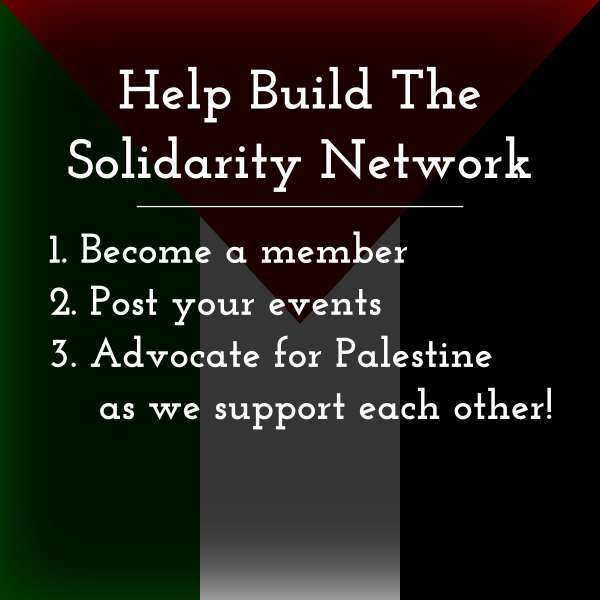
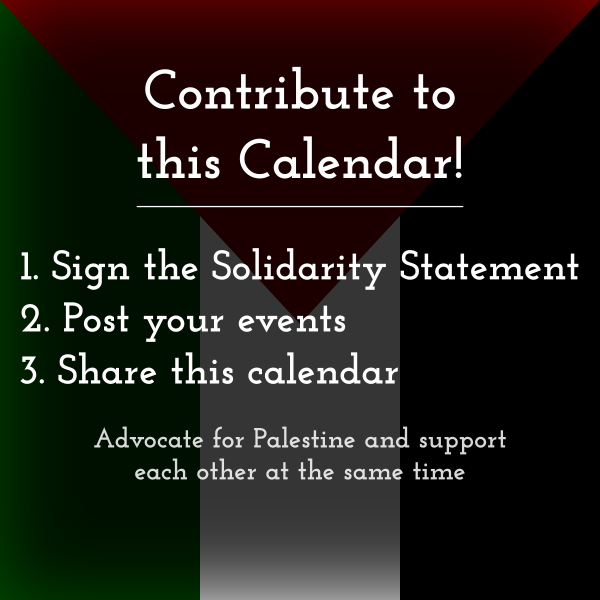
un-name the solidarity network

diff --git a/events.html b/events.html
@@ -10,50 +10,24 @@
 	</div>
 	-->
 
-	<div class="olive-pattern-bg">
-		<h2>Solidarity Network Members</h2>
-	</div>
-	<div id="solidarity-statement">
-		<p>
-			As members of the Solidarity Network we are committing to showing visible solidarity with Palestine at our shows/gigs/performances.
-		</p>
-
-		<h2>Historical Context</h2>
-		<p>
-			We stand in solidarity knowing that for 76 years, the Palestinian people have resisted genocide and a suffocating apartheid system, which restricts people's movements, separating them from their fields, families, schools, and neighbors. They continue to be forced out of their ancestral lands and homes, unjustly imprisoned and brutally tortured. They face a relentlessly dehumanizing mass media campaign and companion military effort fully enabled by the United States’ military, financial, and diplomatic support.
-		</p>
-		<h2>Why it Matters for Musicians in New Orleans</h2>
-		<p>
-			We will not be idle as these atrocities continue. We recognize the power we have as musicians in New Orleans. We are not passive observers; we are active participants in shaping our city’s culture, and that of other places that look to New Orleans as a cultural beacon. As people of conscience and humans with hearts, as artists and musicians, we commit to using our visibility to broadcast our principles, to fight the normalization of the Zionist genocide and occupation, and to leverage what power we have to support all peoples of the world struggling for justice.
-		</p>
-	</div>
-
-	<div id="members">
-		<h2>Members</h2>
-	{% for member in site.data.members %}
-		<div class="member">
-			<span class="member-name">{{ member.name }}</span>
-		</div>
-	{% endfor %}
-	</div>
 
 
 
 	<div class="olive-pattern-bg">
-		<h2>Solidarity Network Calendar</h2>
+		<h2>Calendar</h2>
 	</div>
 
 	<p>
-		Here you'll find shows of bands that are part of the Solidarity Network
+		Here you'll find our upcoming events, events from signatories of the solidarity statement,
 		as well as events from organizations in the New Orleans Coalition for Palestine.
-		Bands in the network direct their audiences to this page with a QR-Code.
+		Musicians direct their audiences to this page with a QR-Code that we provide.
 		In this way we're supporting each other and helping keep our audiences
 		informed about how they can be supportive to the movement for Palestinian
 		Liberation.
 	</p>
 
-	<p>To submit an event to the Solidarity Network Calendar, fill out <a href="{{site.data.quick_links.solidarity_network_event_submission_form.link}}" target="_blank">this form</a></p>
-	<p>To sign up to be a part of the Solidarity Network, fill out <a href="{{site.data.quick_links.solidarity_network_signup_form.link}}" target="_blank">this form</a></p>
+	<p>To submit an event to the calendar, fill out <a href="{{site.data.quick_links.calendar_event_submission_form.link}}" target="_blank">this form</a></p>
+	<p>To sign on to our solidarity statement, fill out <a href="{{site.data.quick_links.solidarity_statement_form.link}}" target="_blank">this form</a></p>
 
 </div>
 <div id="calendar" class="net-pattern-bg">

diff --git a/index.html b/index.html
@@ -45,6 +45,31 @@
 		We acknowledge that music and culture are fundamentally political.
 		</p>
 	</div>
+
+	<div class="olive-pattern-bg">
+		<h2>Solidarity Statement</h2>
+	</div>
+	<div id="solidarity-statement">
+		<h3>Historical Context:</h3>
+		<p>
+			We stand in solidarity knowing that for 76 years, the Palestinian people have resisted genocide and a suffocating apartheid system, which restricts people's movements, separating them from their fields, families, schools, and neighbors. They continue to be forced out of their ancestral lands and homes, unjustly imprisoned and brutally tortured. They face a relentlessly dehumanizing mass media campaign and companion military effort fully enabled by the United States’ military, financial, and diplomatic support.
+		</p>
+		<h3>Why it Matters for Musicians in New Orleans:</h3>
+		<p>
+			We will not be idle as these atrocities continue. We recognize the power we have as musicians in New Orleans. We are not passive observers; we are active participants in shaping our city’s culture, and that of other places that look to New Orleans as a cultural beacon. As people of conscience and humans with hearts, as artists and musicians, we commit to using our visibility to broadcast our principles, to fight the normalization of the Zionist genocide and occupation, and to leverage what power we have to support all peoples of the world struggling for justice.
+		</p>
+		<p><a href="{{site.data.quick_links.solidarity_statement_form.link}}" target="_blank">Click here to add your name!</a></p>
+	</div>
+
+	<h2>Signatories</h2>
+	<div id="members">
+	{% for member in site.data.members %}
+		<div class="member">
+			<span class="member-name">{{ member.name }}</span>
+		</div>
+	{% endfor %}
+	</div>
+	<p><a href="{{site.data.quick_links.solidarity_statement_form.link}}" target="_blank">Click here to add your name!</a></p>
 </div>
 
 {% if false %}

diff --git a/_sass/main.scss b/_sass/main.scss
@@ -105,8 +105,12 @@ nav{
 	@media only screen and (max-width: 500px){
 		max-width: 90vw;
 	}
-
 }
+
+#members{
+	text-align: center;
+}
+
 
 #vision{
 

diff --git a/from_new_orleans_to_palestine.md b/from_new_orleans_to_palestine.md
@@ -23,7 +23,7 @@ layout: ana_dammi_falastini
 
 On January 6th, 2024, working musicians and hundreds of New Orleans community members commandeered the route for a parade that rings in the first night of Carnival season revelry. The sound of brass instruments and Arabic drums filled the air, punctuated with chants like “Resistance is justified, when people face genocide!” and “From the river to the sea, Palestine will be free!” This procession marked the inception of the collective, New Orleans Musicians for Palestine (NM4P).
 
-NM4P took to the streets that night to draw attention to Israel’s attacks on Gaza and declare solidarity with Palestinian resistance and liberation. Since then, the collective has expanded, and now includes the Hanoun Brass Band; a Carnival krewe called Krewe of Zeitoun; and a musicians’ solidarity network. Together, they led a vibrant “right of return” parade last Lundi Gras, bringing Palestinian and Arabic music, culture, and a spirit of resistance to Mardi Gras.
+NM4P took to the streets that night to draw attention to Israel’s attacks on Gaza and declare solidarity with Palestinian resistance and liberation. Since then, the collective has expanded, and now includes the Hanoun Brass Band; a Carnival krewe called Krewe of Zeitoun; and a network of individual bands and musicians in solidarity. Together, they led a vibrant “right of return” parade last Lundi Gras, bringing Palestinian and Arabic music, culture, and a spirit of resistance to Mardi Gras.
 
 On November 26th, 2025, Hanoun Brass Band will release their debut album, “From New Orleans to Palestine”, which is now available for digital purchase. “Hanoun” is a Palestinian word for poppy flower, which has long symbolized Palestinian national identity, culture, resistance, and every Palestinian martyred by settlers and the occupation forces.
 

diff --git a/README.md b/README.md
@@ -2,6 +2,22 @@
 layout: readme
 ---
 
+# Current Task
+
+We're un-naming the solidarity network. that means a few things
+
+- calling everyone who signed up simply "members" or "signatories" and listing them on the website
+- re-issuing all QR code sheets
+- listing members on the website <- Doing this now
+
+- [x] change "solidarity network" in nav to "calendar"
+- [x] move the content of solidarity network page (except calendar) to home under the heading "solidarity statement"
+- [x] list members (for now static, but make it dynamic later)
+- [x] change words "solidarity network" from other links and navs
+- [x] change words "solidarity network" from forms and signup sheets 
+
+
+
 # Development Notes
 
 ## setup environment
@@ -46,7 +62,7 @@ To deploy this site from the `live` branch using the [included action](.github/w
 - [ ] handle old events better
 - [ ] download events in batches of 10 dynamically
     - the pages are pre-rendered by jekyll, just not served
-- [ ] make something to show for when there are no upcoming events
+- [x] make something to show for when there are no upcoming events
 - [ ] automate followup email
 - [ ] regular blog where orgs can post updates
 - [ ] content pulled from google docs
@@ -56,3 +72,4 @@ To deploy this site from the `live` branch using the [included action](.github/w
 - [ ] chant list
 - [ ] make sure everything that needs to be environment variables are that way
     - [ ] document how to clone the repository and make your own
+- [ ] pull events from multiple sources

diff --git a/ana_dammi_falastini.md b/ana_dammi_falastini.md
@@ -22,7 +22,7 @@ layout: ana_dammi_falastini
   </div>
 </div>
 
-On Twelfth Night, 2024, a multicultural New Orleans brass band commandeered the first parade of Carnival, launching the New Orleans Musicians for Palestine (NM4P) collective to bring attention to the Israeli state's attacks on Gaza. Since then, the collective expanded, and now includes the Hanoun Brass Band; a Carnival krewe called Krewe of Zeitoun; and a musicians’ solidarity network. Together, they led a joyful “right of return” parade last Lundi Gras, bringing Palestinian and Arabic music, culture, and a spirit of resistance to Mardi Gras.
+On Twelfth Night, 2024, a multicultural New Orleans brass band commandeered the first parade of Carnival, launching the New Orleans Musicians for Palestine (NM4P) collective to bring attention to the Israeli state's attacks on Gaza. Since then, the collective expanded, and now includes the Hanoun Brass Band; a Carnival krewe called Krewe of Zeitoun; and a network of individual bands and musicians in solidarity. Together, they led a joyful “right of return” parade last Lundi Gras, bringing Palestinian and Arabic music, culture, and a spirit of resistance to Mardi Gras.
 
 This September 5, Hanoun Brass Band will be releasing their first single, an arrangement of Ana Dammi Falastini (My blood Is Palestinian). All proceeds from the release will be donated to organizations supporting Palestinian rights.
 

diff --git a/_events/no-more.md b/_events/no-more.md
@@ -1,5 +1,5 @@
 ---
-title: Help Build the Solidarity Network
+title: Contribute to this calendar
 date: 2030-01-01
 time: 
 location: 
@@ -7,8 +7,8 @@ flyer: no-more.png
 ---
 
 
-If you'd like to become a member [click here](https://forms.gle/HU9fxeH3VrxeypiU7)
+If you'd like to sign the solidarity statement [click here]({{site.data.quick_links.solidarity_statement_form.link}})
 
-To submit an event to this calendar [click here](https://forms.gle/T9pz7BpdDSTSkxxV8)
+To submit an event to this calendar [click here]({{site.data.quick_links.calendar_event_submission_form.link}})
 
 If you don't see an event that's supposed to be here, please let us know. Please note that it may take up to a day for a submitted event to appear.
